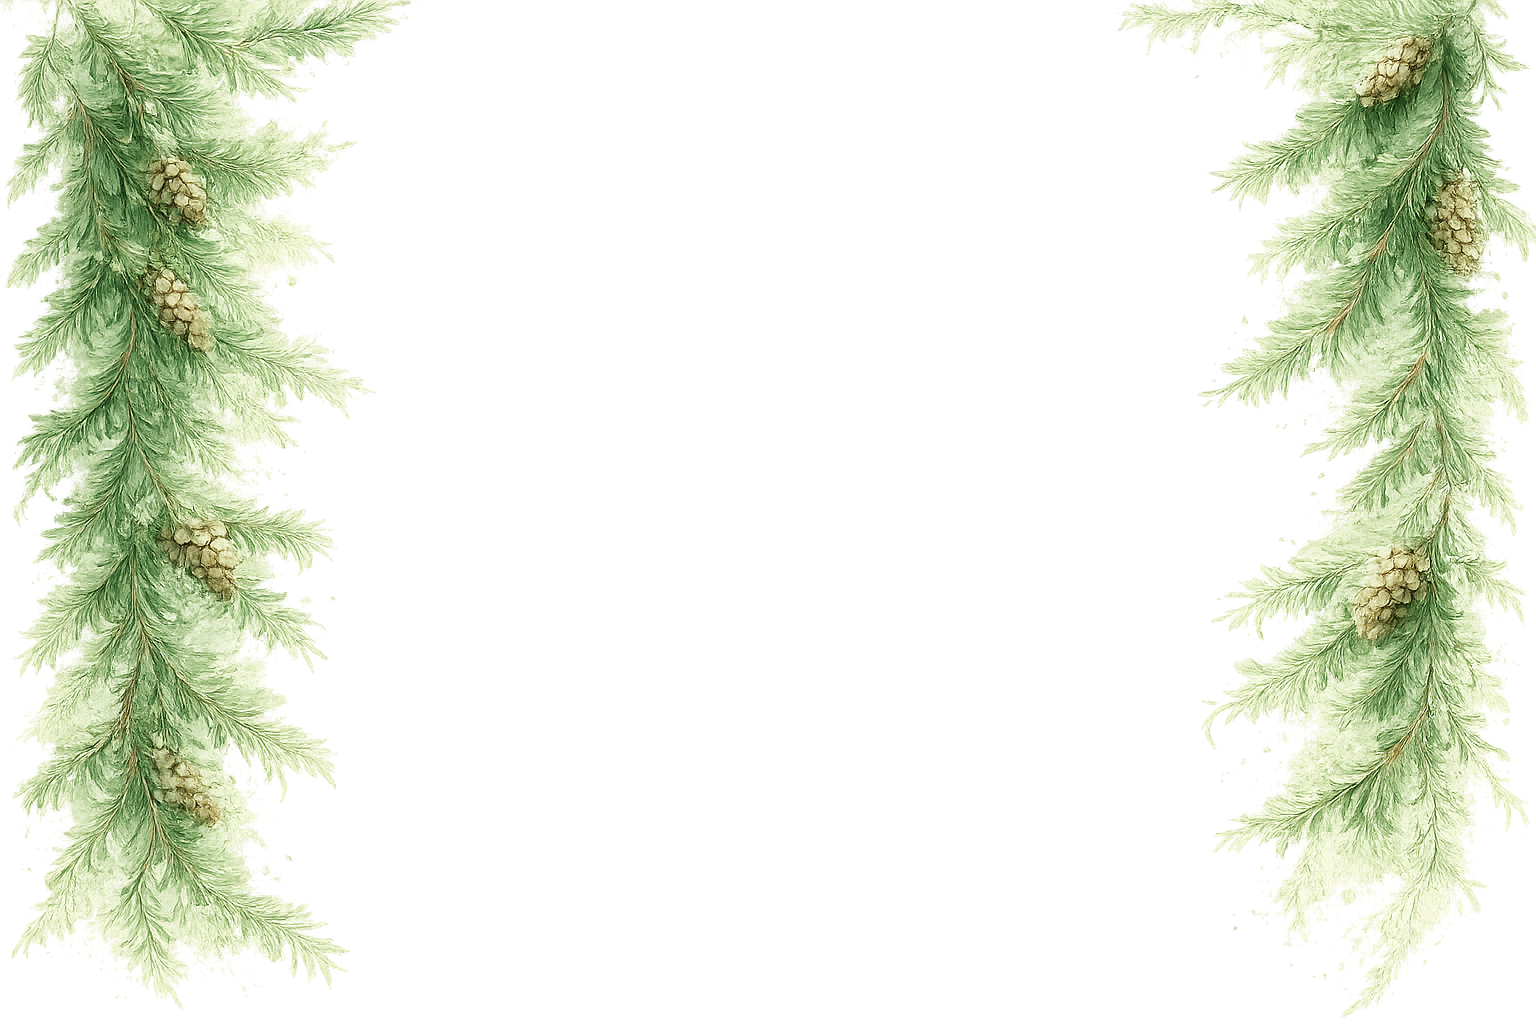
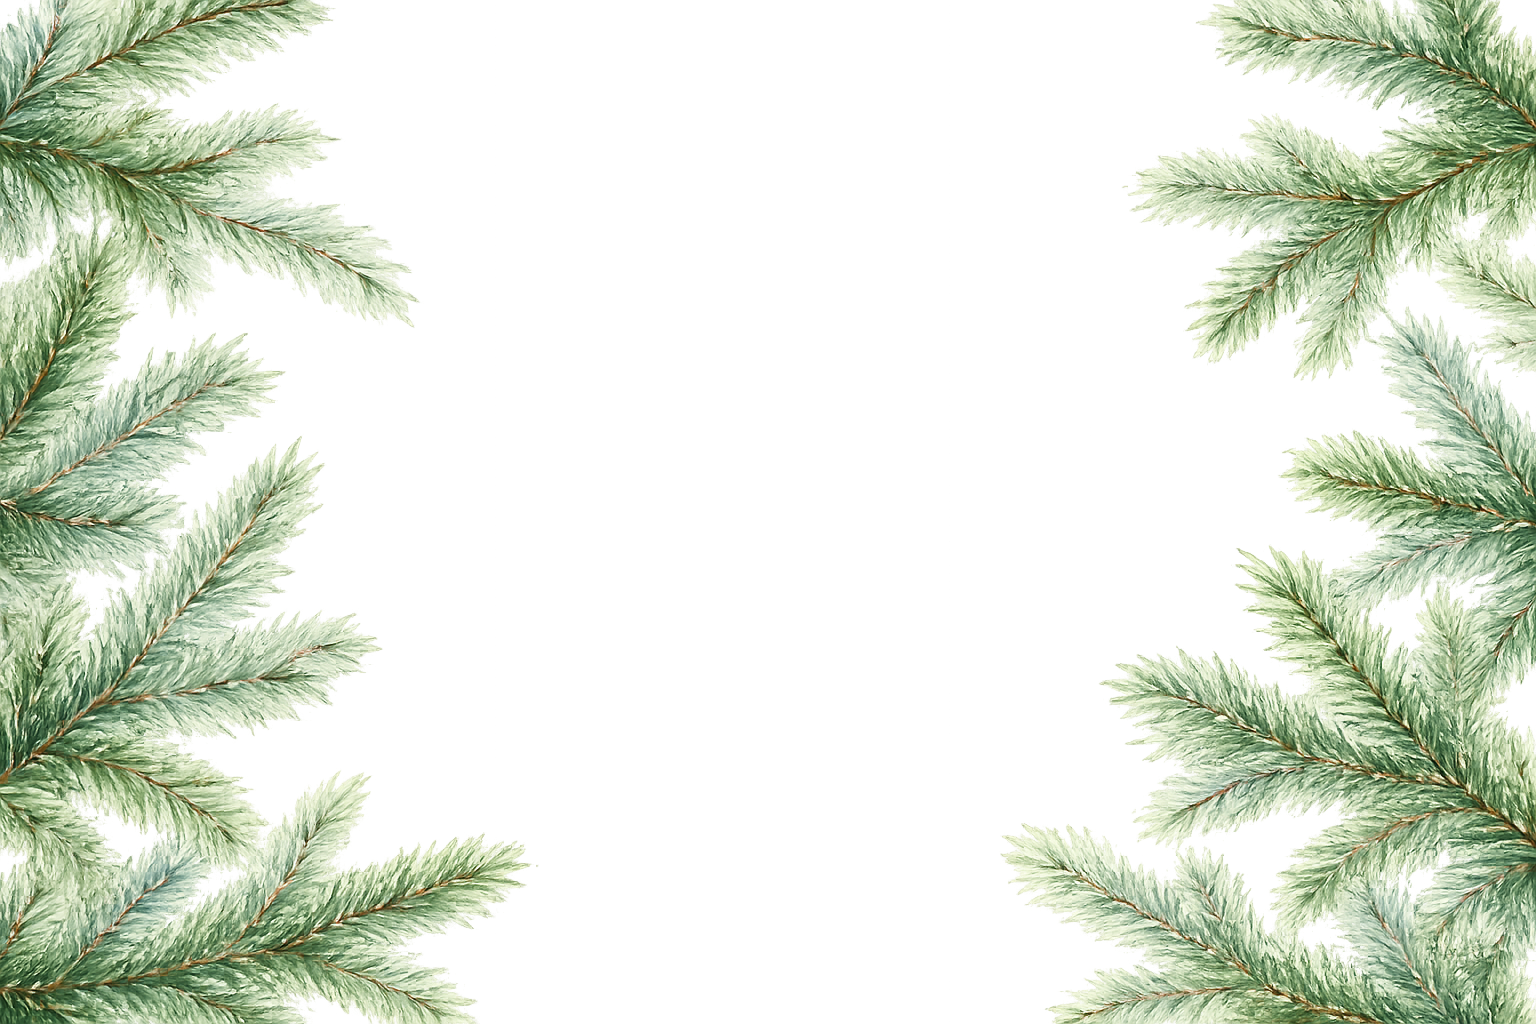
fixed leaves

diff --git a/app/page.tsx b/app/page.tsx
@@ -1,3 +1,4 @@
+import Image from "next/image";
 import { ProjectCarousel } from "@/components/project-carousel";
 import { demoProjects, site, skills, workHighlights } from "@/lib/portfolio-data";
 
@@ -6,8 +7,18 @@ export default function Home() {
     <main className="relative isolate min-h-screen overflow-x-hidden bg-[radial-gradient(circle_at_top_left,#d9f99d_0,#f7fee7_28%,#fafaf9_58%,#f5f5f4_100%)] font-sans text-stone-900">
       <div
         aria-hidden="true"
-        className="pointer-events-none fixed inset-0 z-0 hidden bg-[url('/background.png')] bg-cover bg-center bg-no-repeat opacity-90 lg:block"
-      />
+        className="pointer-events-none fixed inset-0 z-0 hidden opacity-90 lg:block"
+      >
+        <Image
+          src="/background.png"
+          alt=""
+          fill
+          priority
+          unoptimized
+          sizes="100vw"
+          className="object-cover object-top"
+        />
+      </div>
 
       <nav className="relative z-10 mx-auto flex max-w-5xl items-center justify-between px-6 py-7">
         <a
